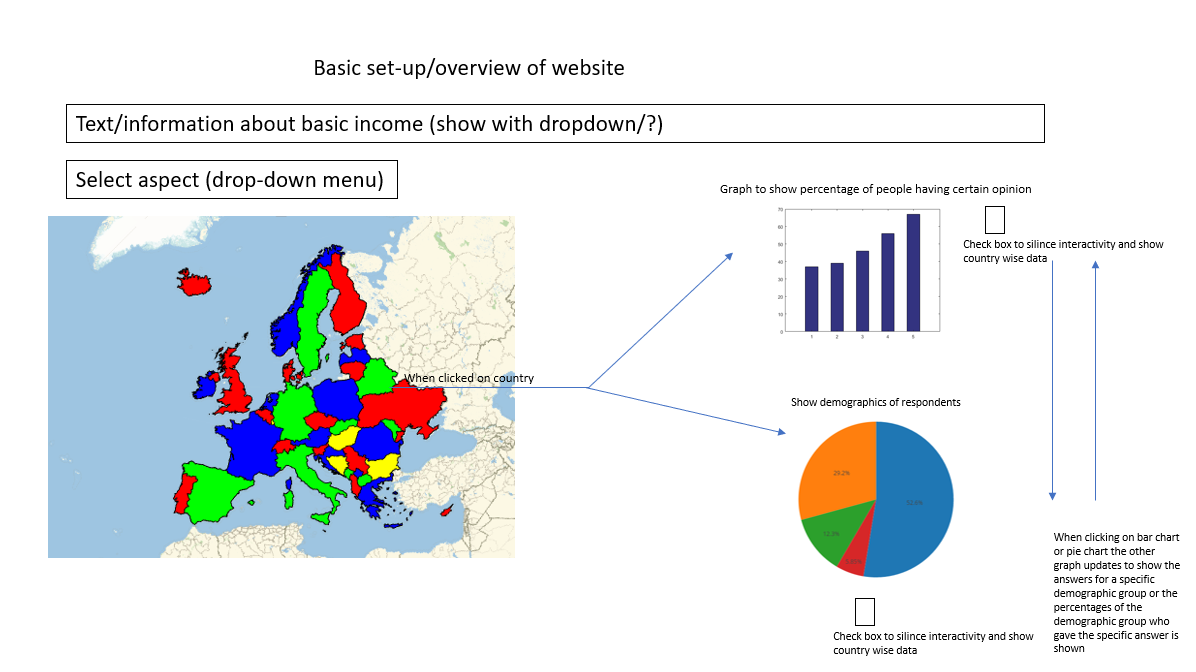
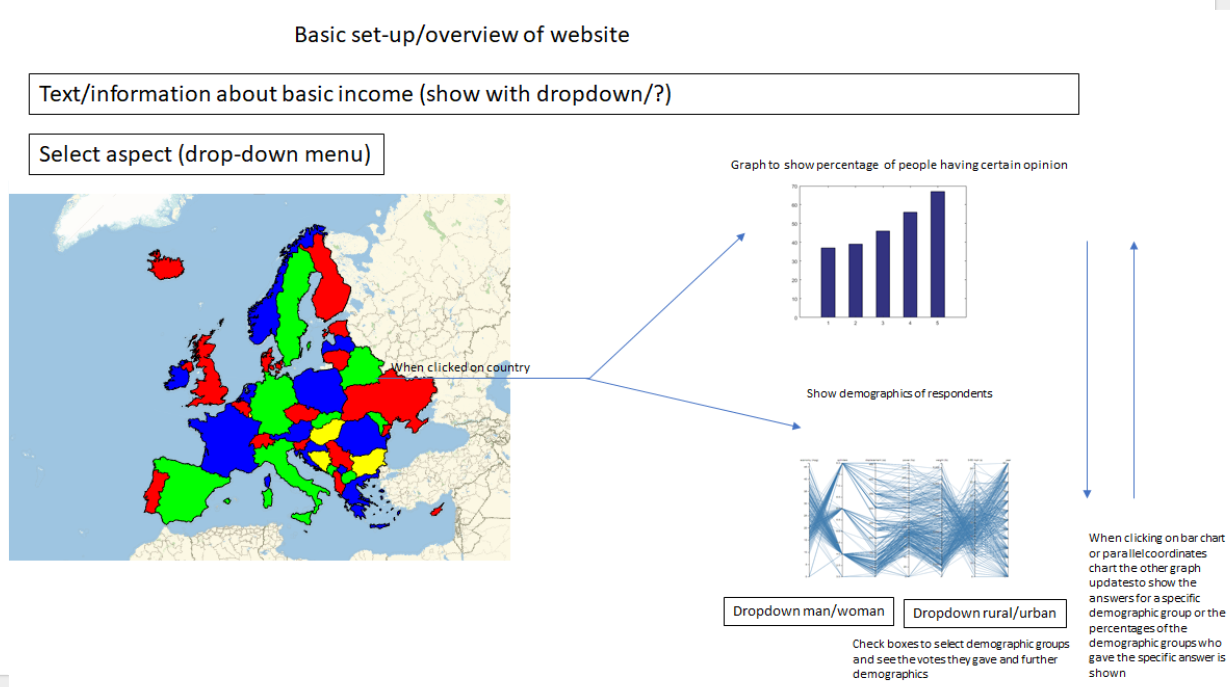
update design and readme.md

diff --git a/Design.md b/Design.md
@@ -4,18 +4,25 @@ Student number: 10455701
 
 ## Data sources
 The data about the basic income opinions comes from Kaggle.com and is a downloaded csv file.
-!! The data about the welfare systems in Europe comes from learneurope.eu and data of this website is noted in a csv file.
 
 ## Filters and data transformaties
 Map: for the map the question selected in the drop-down menu is used to filter the data on question, the 4 different answers on the question are counted and the most selected choice for a country is shown in a specified color on the map.
-Barchart: filter on question and clicked country, at start the percentages of the answers is shown, when the sunburst is clicked the percentages of the answers is shown per demographic unit of the population that is clicked.   
-Sunburst: sunburst shows the demographics of the correspondents of the questionaire and when clicked on a certain bar of the bar graph the chart changes to show the demographics of the people that have given a certain answer.
+Barchart: filter on question and clicked country, at start the percentages of the answers is shown, when the parallel orientations graph is clicked the percentages of the answers is shown per selected demographic unit of the population that is selected.   
+Parallel orientations graph: parallel orientations graph shows the demographics of the correspondents of the questionaire and their answers when clicked on a certain bar of the bar graph the chart changes to select/show the demographics of the people that have given a certain answer.
 
 ## Technical component diagram
-
+![](doc/design_image.png)
 
 ## Code components
 * Main (loads the data and calls all the functions)
-
+* Function for dropdown
+* Function for map
+* Function for bar graph
+* Function for parallel orientations graph
+* Update function for bargraph and parallel orientations graph after map click
+* Update function bar graph after selection of parallel orientations graph
+* Update function parallel orientations graph after click on bar
 
 ## Plugins for D3
+* D3 tooltip
+* Topojson/datamaps

diff --git a/README.md b/README.md
@@ -10,7 +10,7 @@ Due to the increased interest, it is worthwhile to investigate the brought opini
 Because at present there are no visualizations available about the public opinion of basic income, it is hard to really pinpoint the actual opinion about the basic income and its division over the population per European country. The main target audience of this project will be people with interest in the basic income. 
 
 ## Solution of the problem
-The solution to this problem is to create a website that shows a map of Europe where the countries are colored according to a specific opinion about an aspect of the basic income and when clicked on the country the division of that opinion over the population is shown in total and pie chart with the demographics of the interviewed people is shown, the pie chart and bar graph will interact on click basis.
+The solution to this problem is to create a website that shows a map of Europe where the countries are colored according to a specific opinion about an aspect of the basic income and when clicked on the country the division of that opinion over the population is shown in total and all respondents and demographics of respondents of the interviewed people is shown in a parallel orientations graph, the parallel orientations graph and bar graph will interact on click/selection basis.
 
 ## Datasets
 The dataset that is used to build this website comes from kaggle.com.
